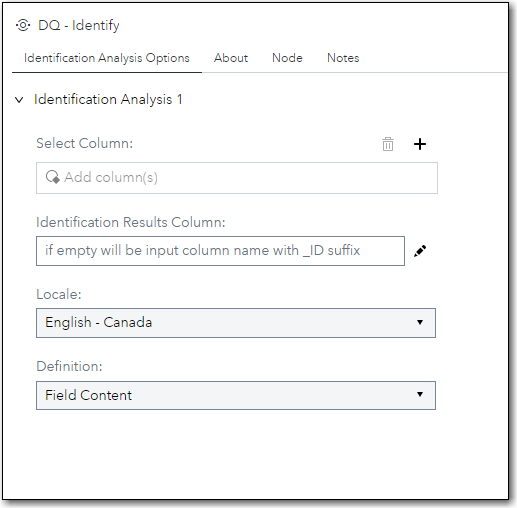
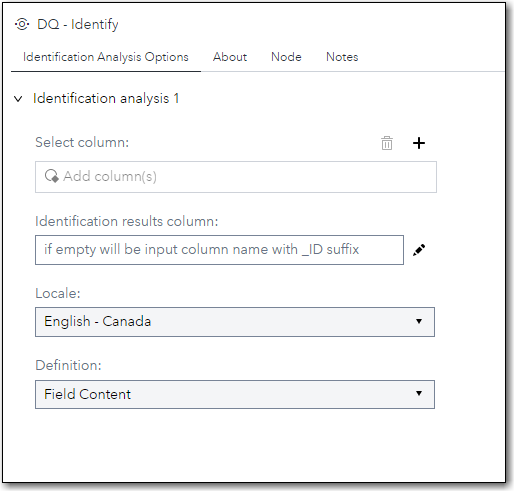
DQ - Identify - updates to pull request for UI standards and sample data
updated the DQ Identify Custom Step package to meet UI standards, and add sample input data.

diff --git a/DQ - Identify/README.md b/DQ - Identify/README.md
@@ -14,10 +14,10 @@ The **DQ - Identify** step allows you to obtain the Identity Type for each indiv
    
    * This applies to Identification Analysis 1 … Identification Analysis 5
 
-1. **Select Column**            - Defines the column on which to perform Identification Analysis.  
-2. **Identification Results**   - Specify name of output column to contain generated Identity Types. If left empty, a new column will be created using name of input column suffixed with **_ID**.      
-3. **Locale**                   - Pick the Locale to be used for Identification Analysis.  If left empty, the **English - USA** Locale will be used. 
-4. **Definition**               - Pick the Definition to be used for Identification Analysis. If left empty, the **Field Content (Global)** Definition will be used.  
+1. **Select column**                  - Defines the column on which to perform Identification Analysis.  
+2. **Identification results column**  - Specify name of output column to contain generated Identity Types. If left empty, a new column will be created using name of input column suffixed with **_ID**.      
+3. **Locale**                         - Pick the Locale to be used for Identification Analysis.  If left empty, the **English - USA** Locale will be used. 
+4. **Definition**                     - Pick the Definition to be used for Identification Analysis. If left empty, the **Field Content (Global)** Definition will be used.  
 
 ## Requirements
 
@@ -29,9 +29,40 @@ The **DQ - Identify** step allows you to obtain the Identity Type for each indiv
 
 ![Using the DQ - Identify Custom Step](img/dqidentify.gif)  
 
+
+Copy/paste and run the following SAS code into SAS Studio for sample input data.
+```sas
+data CDN_ACCOUNTS ;
+	length Name Address City Prov PostCode Phone Email $ 40 ;
+	infile cards dsd dlm="," ;
+	input ID Name $ Address $ City $ Prov $ PostCode $ Amount Phone $ Email $ ;
+	cards ;
+201,Mr. Jacques Plante,14 Denis Road,Cantley,QC,J8V 3J5,50,(819)-555-2334,
+202,Tony Sarducci,2125 31 Ave,Calgary,Alberta,T2T 1T5,100,,
+203,Anthony Sarducci, ,,,,400,tony.duke@telus.ca,
+204,Amar Singh,5264 Joel Avenue,"Burlington,ON",L7L3Y7,,300,,
+205,Jack Plant,,,,,50,555-2334,JPlante@gmail.com
+206,Mr. Arnold Toporowski,"38 Metropol, Unit 1605",Ottawa ON K1Z 1E9,,613 755-2313,90,,ArnoldT@sas.com
+207,Ms MJ Belanger,4500 Sherbrooke St W,Montreal,QC,H3Z 1E6,950,514 799 9239,
+208,Mr. Anthony Sarducci,2125 31 Ave SW,Calgary AB T2T1T5,,,10,403.265.5177,tony.sarducci@bell.ca
+209,"Plant, Jack",201-14 Denis Rd,Gatineau,,J8V3J5,150,555-2334,
+210,Mme Marie-Josée Bélanger,"4500, rue Sherbrook Ouest",Montréal,PQ,,900,,MJBelanger@bell.ca
+211,Ms. M.-J. Bélanger,4500 Sherbrooke O,Mtl,QC,H3Z 1E6,100,799-9239,
+212,Jacques Plante,"14, Chemin Denis, app 201",Cantley,Quebec,,40,,
+213,Amar Singh,5264 Joel Av,Burlington,ON,,100,(905) 637 5119,amar.singh@lost.com
+214,Arnie Toperowski,"38, privé Metropole, app 1605",Otawa  ,Ont,K1Z1E9,400,,
+215,Jacques Plante,14 Denise Unit 201,"Cantley, QC, J8V 3J5",,,10,,
+216,JF Tremblay,P.O. Box 123,St-Marc-du-Lac-Long,QC,,200,819-555-4545,
+217,Jean-Francois Tremblay,CP 123,Saint Marc QC,G0L 1TO,,90,,JFTremblay@bell.ca
+218,"Tremblay, JF",CP 123,St-Marc,Quebec,GOL 1T0,50,555-4545,
+219,A. Toporowski,"38 Metropole Private, Unit 1605",Ottawa,Ontario,K1Z 1E9,100,7552313,ArnoldT@sas.com
+220,Tony Sarducci,2125 31 Av,Calgary,AB,,400,,tony.duke@telus.ca
+;
+```
+
 ## Change Log
 
-Version 1.0 (24NOV2022)  
+Version 1.0 (29NOV2022)  
 
   * Initial version  
   
